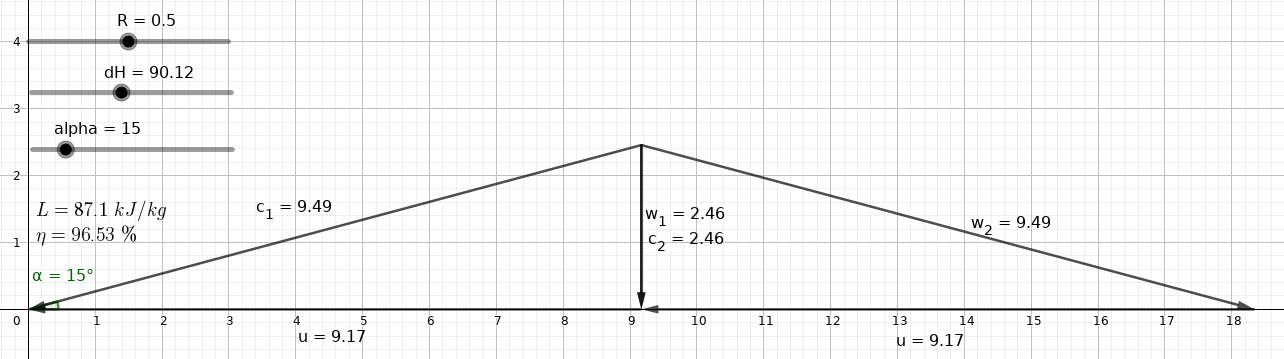
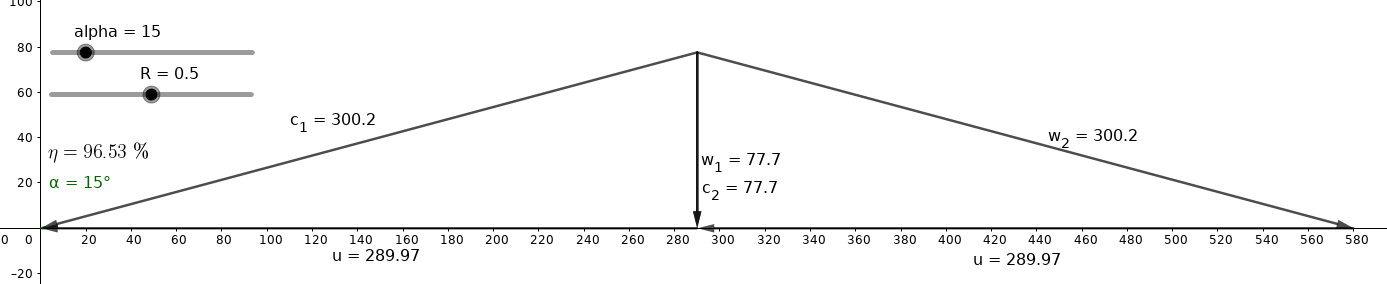
aggiunta immagine triangoli velocità reazione

diff --git a/Tex/Esercizio_4/esercizio_4.tex b/Tex/Esercizio_4/esercizio_4.tex
@@ -156,12 +156,11 @@ I triangoli di velocità sono ottimizzati se $c_2$ è parallelo all'asse del rot
 \end{equation}
 e pari a 290 m/s.
 Seguendo i passaggi precedenti è possibile rappresentare quindi i triangoli di velocità.
-% da correggere
-% \begin{figure}[H]
-%     \label{fig:triangoli_reazione}
-%     \centering
-%     \includegraphics[width=\linewidth]{media/triangoli_reazione.png}
-% \end{figure}
+\begin{figure}[H]
+    \label{fig:triangoli_reazione}
+    \centering
+    \includegraphics[width=\linewidth]{media/triangoli_reazione.png}
+\end{figure}
 Il lavoro ricavato dallo stadio a reazione si calcola allo stesso modo del caso precedente e risulta pari a 87.1 kJ/kg, il rendimento è quindi maggiore dello stadio
 ad azione (96.5\%). Di contro la velocità tangenziale della turbina è aumentata notevolmente, ciò può causare uno stress eccessivo alle palette soggette ad un'elevata
 forza centrifuga.
